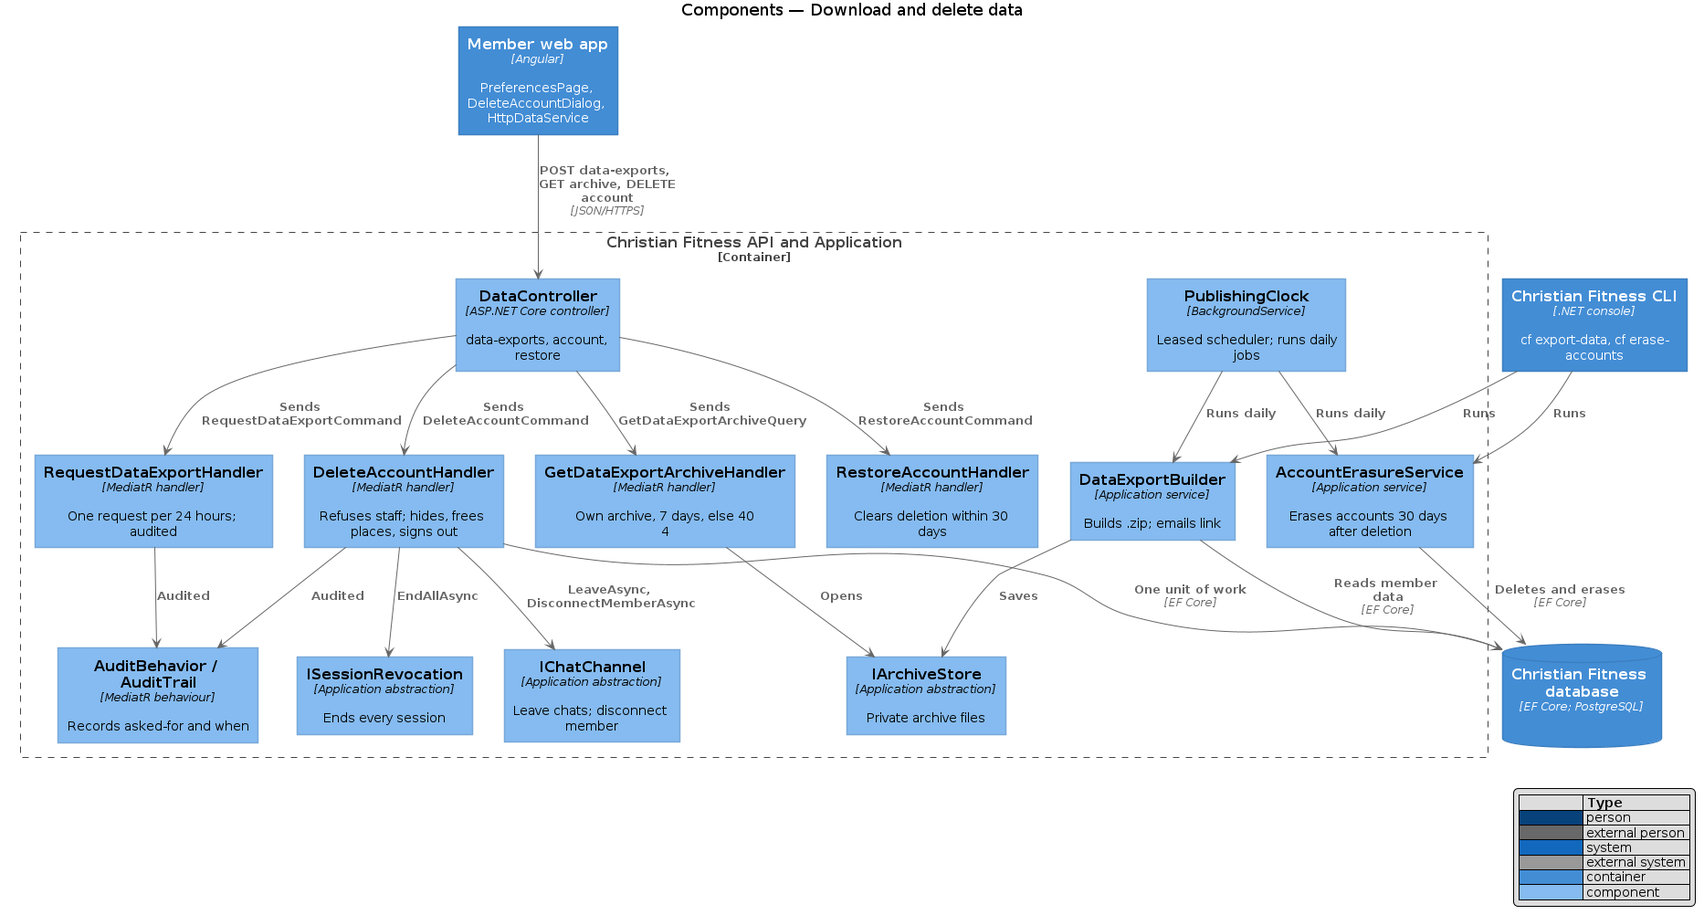
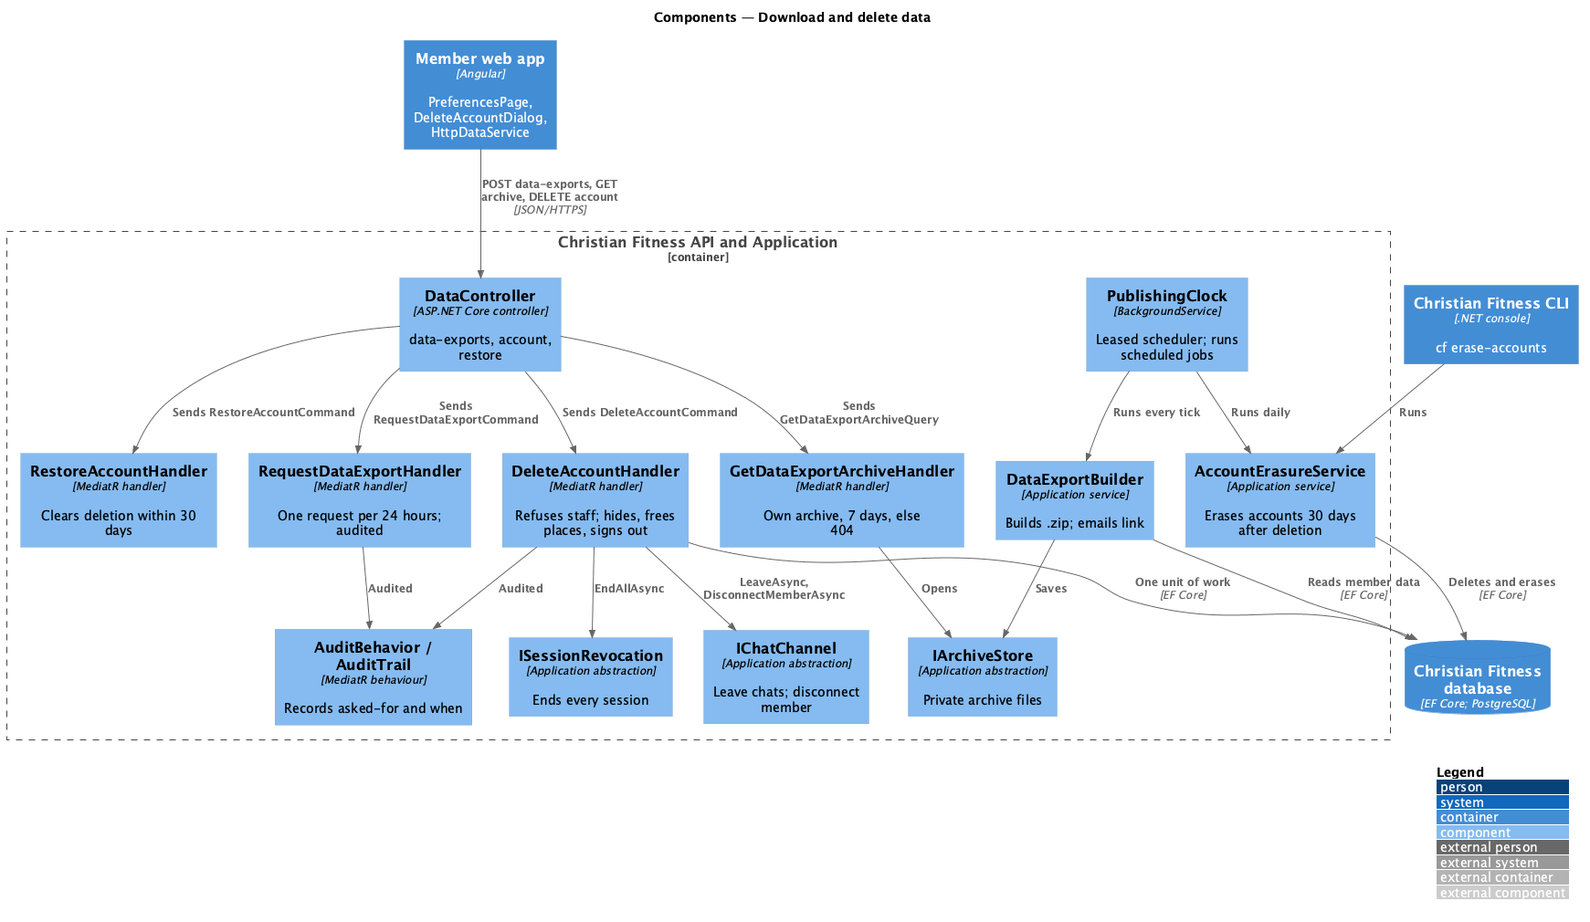
Journey 35 complete: ADR 0117, design, diagrams, mock, journeys and lessons learned

Changed region(s): [[0.0, 0.0309, 1.0, 0.99], [0.4032, 0.0, 0.5893, 0.0309], [0.1551, 0.3713, 0.1861, 0.4022]]

diff --git a/docs/mocks/pages/download/default.html b/docs/mocks/pages/download/default.html
@@ -35,7 +35,7 @@
         <span class="done__icon"><svg class="icon icon--lg" viewBox="0 0 24 24" aria-hidden="true"><path d="M20 6 9 17l-5-5"/></svg></span>
         <h1 class="display page-title done__title">Your download is ready</h1>
         <p class="done__text">Your data is on its way to your device. If it doesn't start, download it again. The link works for 7 days, until April 22, 2026, and only while you're signed in.</p>
-        <div class="done__actions"><a class="btn btn--primary" href="default.html"><svg class="icon" viewBox="0 0 24 24" aria-hidden="true"><path d="M21 15v4a2 2 0 0 1-2 2H5a2 2 0 0 1-2-2v-4"/><polyline points="7 10 12 15 17 10"/><line x1="12" x2="12" y1="15" y2="3"/></svg>Download again</a><a class="btn btn--secondary" href="../../pages/preferences/default.html">Back to preferences</a></div>
+        <div class="done__actions"><button class="btn btn--primary" type="button"><svg class="icon" viewBox="0 0 24 24" aria-hidden="true"><path d="M21 15v4a2 2 0 0 1-2 2H5a2 2 0 0 1-2-2v-4"/><polyline points="7 10 12 15 17 10"/><line x1="12" x2="12" y1="15" y2="3"/></svg>Download again</button><a class="btn btn--secondary" href="../../pages/preferences/default.html">Back to preferences</a></div>
       </section>
     </div>
   </main>

diff --git a/docs/detailed-designs/preferences/download-and-delete-data/README.md b/docs/detailed-designs/preferences/download-and-delete-data/README.md
@@ -21,14 +21,14 @@ This feature supersedes the export and deletion parts of [protect personal data]
 
 - **Your data section** — part of `PreferencesPage` ([set email and notification preferences](../set-email-and-notification-preferences/README.md)). "Download your data" shows a secondary `button` "Request download"; once requested, or when `PreferencesDto.downloadRequestedAt` is within the last 24 hours, it shows the `role="status"` text "Requested. We'll email you a link within 24 hours." in its place (AC1, AC3). "Delete account" opens the dialog. A link to the Privacy Policy closes the section (`L2-067` AC4).
 - **`DeleteAccountDialog`** — CDK Dialog in `projects/web/src/app/dialogs/delete-account/`, imported with `import()` on first press so neither it nor the CDK enters the initial bundle, and opened with the page's injector. It composes the library's `dialog` shell (title "Delete your account?", the account's name and email as subtitle), the `prose` text of what is removed and when, `text-field` "Type "delete" to confirm", `alert` and two `button`s, "Keep my account" and "Delete my account" (danger). Focus starts in the field; Escape, Close and "Keep my account" close it with nothing changed (AC4). `deleteConfirmation` in `@cf/domain` checks the word: anything else marks the field `aria-invalid` with "Type the word delete to confirm." and sends nothing (AC5, mock `invalid`). While waiting the button reads "Deleting…" and both buttons are disabled (mock `busy`). A failure shows "We couldn't delete your account" with "Nothing was changed." (mock `failed`). Success closes the dialog by its ref and navigates to the landing page (AC6). A refusal with `staff_account` shows "Staff accounts can't be deleted here. Ask an Admin." (AC9, mock `staff-account`).
-- **`DataApi` / `DATA_SERVICE`** — contract and token in the `api` library (`api/src/account/data.ts`): `requestDownload()`, `deleteAccount(confirm)`. `HttpDataService` is bound on `PreferencesPage`.
-- **Download link route** — `/preferences/download/:id` under the member shell and `memberAuthGuard`, so a member who follows the emailed link signs in first and returns to it (`L2-004` AC6). The page starts the browser download from `GET /api/data-exports/{id}/archive` and shows an expired or not-found state otherwise (mock `docs/mocks/pages/download/`, states `default` and `expired`).
+- **`DataApi` / `DATA_SERVICE`** — contract and token in the `api` library (`api/src/account/data.ts`): `requestDownload()`, `download(id)`, `archive(id)`, and (journey 36) `deleteAccount(confirm)`. `HttpDataService` is bound on `PreferencesPage` and on `DownloadPage`. A request that gets no answer shows the library's inline message under the row, with Try again ([ADR 0117](../../../adr/0117-download-my-data.md)).
+- **Download link route** — `/preferences/download/:id` under the member shell and `memberAuthGuard`, so a member who follows the emailed link signs in first and returns to it (`L2-004` AC6). `DownloadPage` reads `GET /api/data-exports/{id}` for the link's expiry, then reads `GET /api/data-exports/{id}/archive` and hands it to the browser to save through an object URL it revokes at once; "Download again" reads it again. Every 404 shows the `expired` state, since the API answers another member's link as it answers an expired one; no answer shows `error` with Try again (mock `docs/mocks/pages/download/`, states `loading`, `default`, `expired` and `error`; ADR 0117).
 
 ### Christian Fitness API
 
-- **`DataController`** — `POST /api/data-exports` sends `RequestDataExportCommand`; `GET /api/data-exports/{id}/archive` sends `GetDataExportArchiveQuery`; `DELETE /api/account` sends `DeleteAccountCommand`; `POST /api/account/restore` sends `RestoreAccountCommand`. Each requires a member session except restore (see the restore behaviour).
+- **`DataController`** — `POST /api/data-exports` sends `RequestDataExportCommand`; `GET /api/data-exports/{id}` sends `GetDataExportQuery` (the link's `expiresAt`); `GET /api/data-exports/{id}/archive` sends `GetDataExportArchiveQuery` (built as `DataExportsController`); `DELETE /api/account` sends `DeleteAccountCommand`; `POST /api/account/restore` sends `RestoreAccountCommand`. Each requires a member session except restore (see the restore behaviour).
 - **`RequestDataExportCommand` / handler** — an `IAuditableCommand` (`data_export.requested`). When a request of the caller's is younger than 24 hours it answers that one and adds nothing; otherwise it adds a `DataExportRequest`. It records the audit entry with the member as actor (AC10).
-- **`DataExportBuilder`** — application service run daily by the shared scheduler ([ADR 0069](../../../adr/0069-scheduled-work.md)), or manually by `cf export-data`. For each request without an archive it assembles the member's own data (below) into a .zip, stores it through a private `IArchiveStore`, sets `ReadyAt` and `ExpiresAt = ReadyAt + 7 days`, and sends one `EmailMessage` to the account's address with the link `{MemberAppAddress}/preferences/download/{id}` (AC1). The same run deletes archives past their expiry. Neither the email nor any span carries what the archive holds (AC10).
+- **`DataExportBuilder`** — built as `BuildDataExportsCommand`, run on every tick of the shared scheduler ([ADR 0069](../../../adr/0069-scheduled-work.md)), so an archive is ready within a minute; no CLI command runs it ([ADR 0117](../../../adr/0117-download-my-data.md)). For each request without an archive, at most 10 a tick, it assembles the member's own data (below) into a .zip, stores it through a private `IArchiveStore`, sets `ReadyAt` and `ExpiresAt = ReadyAt + 7 days`, and sends one `EmailMessage` to the account's address with the link `{MemberAppAddress}/preferences/download/{id}` (AC1). The same run deletes archives past their expiry. Neither the email nor any span carries what the archive holds (AC10).
 - **`GetDataExportArchiveQuery` / handler** — streams the archive only when the request's `MemberId` is the caller's and `ExpiresAt` is in the future; any other id, an expired one or another member's is the same 404 `not_found` (AC2, `L2-031` AC3).
 - **`DeleteAccountCommand` / `DeleteAccountValidator` / handler** — an `IAuditableCommand` (`account.deletion_requested`). The validator refuses a `confirm` other than "delete" with 400 `validation_failed`. The handler refuses a member who holds a `StaffRole` with 403 `staff_account` (AC9), then, in one unit of work: marks the member deleting (`Member.RequestDeletion(now)`, which sets `DeletionRequestedAt`); removes their registrations at events (and later series sessions) that have not started, so the places go back (AC6); unsubscribes the account subscription; deletes unused password resets and every archive; ends every session through `ISessionRevocation.EndAllAsync` (AC6, "signed out everywhere at once"). After the save it calls `IChatChannel.LeaveAsync` for each event chat the member was in and a new `IChatChannel.DisconnectMemberAsync`, so open hub connections close too.
 - **Deleting accounts in other handlers** — from the moment of deletion: `GetPublicProfileHandler` answers `not_found`; group and direct chat history and the conversation list name the author "A former member" (AC7); `ChatMembership.SeatAsync` and `GroupMembership.ShareAGroupAsync` ignore the member, so they leave every group chat (AC6); `DirectChat.OtherNameAsync` treats them as unavailable; going counts exclude them.
@@ -65,17 +65,18 @@ The table lists every store of member data in the code today, then the stores th
 | Google sign-in link (`L2-049`) | No | Kept for restore | Deleted |
 | Series places and drop-ins (`L2-052`, `L2-053`) | Yes | Sessions not started go back; series chat left | Deleted |
 | Listing follows (`L2-056`) | Yes | Kept for restore | Deleted |
-| Listing suggestions (`L2-062`), including the suggested person's email | Yes | Kept for staff review | Erased |
-| Feedback notes, replies kept with them and screenshots (`L2-063`, `L2-074`) | Yes | Kept; replies to a deleting member refused with `member_deleting` | Erased, screenshot files too |
+| Listing suggestions (`L2-062`), including the suggested person's email | Yes, without the suggested person's email or the decline reason (ADR 0117) | Kept for staff review | Erased |
+| Feedback notes, replies kept with them and screenshots (`L2-063`, `L2-074`) | The member's notes; a reply's time but not its text, and no screenshot file (ADR 0117) | Kept; replies to a deleting member refused with `member_deleting` | Erased, screenshot files too |
 | Legal acceptance versions (`L2-067` AC5) | Yes | Kept | Deleted |
 | `DataExportRequest` and archives | — | Archives deleted; links stop working | Rows deleted |
 
 ### Open questions
 
 - **Deadline and daily cadence.** A daily run can finish an export after its 24-hour deadline
-  or erase an account after its 30-day threshold, even without an outage. The implementation
-  slice must resolve the timing and recovery needed to meet `L2-066` and `L2-033`, without
-  shortening the member's 30-day restoration period.
+  or erase an account after its 30-day threshold, even without an outage. For exports, ADR 0117
+  resolves it: the builder runs on every scheduler tick and a missed tick's requests stay due.
+  Erasure (journey 36) must still resolve its timing and recovery without shortening the
+  member's 30-day restoration period.
 - **Mocked states.** Sign-in for a deleting account with Restore (`docs/mocks/pages/sign-in/deleting.html`), the download page (`pages/download/`, `default` ready and `expired`), the `staff_account` refusal in the dialog (`dialogs/delete-account/staff-account.html`) and the wording of the deletion-requested, deletion-done and download-ready emails (`pages/email-deletion-requested/`, `email-deletion-done/`, `email-download-ready/`) are drawn.
 - **Audit by members.** `AuditBehavior` (ADR 0023) serves staff commands today; this design uses it for two member commands, with the member as actor, which ADR 0023 should record.
 

diff --git a/docs/adr/0117-download-my-data.md b/docs/adr/0117-download-my-data.md
@@ -1,0 +1,69 @@
+# 0117. Download my data
+
+## Status
+
+Accepted, 27 November 2026. Builds journey 35 (`L2-066` AC1 to AC3 and AC10); follows
+[ADR 0078](0078-personal-data-erasure-and-retention.md) and the scheduler of
+[ADR 0069](0069-scheduled-work.md) and [ADR 0104](0104-schedule-stories.md). Leaves the
+deletion half of the same design to journey 36.
+
+## Context
+
+The design ([download and delete data](../detailed-designs/preferences/download-and-delete-data/README.md))
+runs the archive builder daily and asks the implementation to resolve how a daily run meets the
+24-hour promise. It names the archive's seven files but not their fields, and its table puts
+staff replies to feedback in the archive although `L2-066` AC2 says the archive holds no other
+person's messages. The mock draws "Download again" as a link to the archive, and has no state for
+a request that gets no answer.
+
+## Decision
+
+- **Cadence.** The builder runs on every tick of the publishing clock (30 seconds, under its
+  lease), not daily: a request is built within a minute, far inside 24 hours, and a tick missed in
+  an outage is caught by the next one, since every request without `ReadyAt` stays due. A tick
+  builds at most 10 archives, oldest first. The same tick deletes each archive whose 7 days are
+  over and clears its key, so the link stops working. No `cf export-data` command is added: the
+  clock is the only runner, and an operator never needs to build one by hand.
+- **Request.** `POST /api/data-exports` is an auditable member command (`data_export.requested`,
+  record type `DataExportRequest`, the member as actor, as ADR 0078 amends ADR 0023). A request
+  younger than 24 hours is answered again with its time and nothing is added or audited.
+  `GET /api/preferences` answers `downloadRequestedAt` while the latest request is younger than 24
+  hours, so the confirmation shows in place of the button for that long (AC3). The server alone
+  decides the 24 hours; the page shows the confirmation whenever the field is set.
+- **Archive.** `README.txt` and `profile.json` (with `legalAcceptance` and `suggestions`),
+  `preferences.json` (the four sections of Preferences), `registrations.json` (events and series),
+  `follows.json`, `messages.json` (`groupChats` by chat title, and `direct` by the display name of
+  the member written to), `feedback.json` and `subscriptions.json`. No file holds an id. Left out
+  because they are another person's: messages received, the email of a person suggested for the
+  directory, and the text of staff replies to feedback (only `repliedAt` stays). Left out because
+  they are staff's words: a moderation note and a suggestion's decline reason. A group chat names
+  its event or series only, not its other members. Screenshots stay out; a note says
+  `hasScreenshot`. Times are UTC.
+- **Storage.** `IArchiveStore` keeps each .zip under a new key (`{guid}.zip`) in
+  `Exports__Directory` (documented in `docs/operations/settings.md`; `/data/exports` on the
+  container app's share). Nothing serves that folder.
+- **Link.** The email (mock `email-download-ready`) links to `/preferences/download/{id}` in the
+  member shell, so a member signs in first. `GET /api/data-exports/{id}` answers `expiresAt`, and
+  `GET /api/data-exports/{id}/archive` the .zip as a `private, no-store` attachment, only for the
+  caller's own request while `ExpiresAt` is in the future; any other id, another member's, one not
+  built yet or one past its 7 days is the same 404 `not_found` (`L2-031` AC3). The page therefore
+  shows mock `expired` for every 404: it cannot, and must not, tell another member's link from an
+  expired one.
+- **Download in the page.** The page reads the archive with `HttpClient` and hands it to the
+  browser through an object URL that it revokes straight after the save begins, or when the page is
+  destroyed. A browser download of the archive's address would bypass the app's error handling and
+  the e2e fixture, which cannot intercept it. "Download again" is therefore a button that reads it
+  again, not a link to the archive as the mock draws it; the mock now draws a button.
+- **States the mocks do not draw.** A request that gets no answer shows the library's inline
+  message under the row, "Your download wasn't requested." with Try again; the button stays. The
+  expired state uses the `done` block's alert variant (its clock icon), not the mock's circle.
+  A 5xx on the download page's check is the app's server-error screen, as on every screen.
+- **Telemetry.** The clock logs how many archives it built, never whose or what they hold. No
+  handler logs; the email's body is not logged (ADR 0010).
+
+## Consequences
+
+A member gets their copy within a minute of asking, not within a day. The archive is held in
+memory once while it is built and once in the page while it is saved, which keeps each archive
+small enough only while members' data stays small; a member with very many messages would need a
+streamed archive. Journey 36 deletes a deleting member's archives and requests.

diff --git a/docs/lessons-learned.md b/docs/lessons-learned.md
@@ -5,7 +5,7 @@ added before it merges. Read this file before starting a journey and apply what 
 
 Each entry records what slowed the work, the new lessons it taught and how earlier lessons
 worked when applied. Newest entries go at the bottom.
-**% complete:** 94% (34 of 36 journeys; 106 of 113 days)
+**% complete:** 96% (35 of 36 journeys; 109 of 113 days)
 
 ## Slice 1.1: Frontend workspace
 
@@ -3749,3 +3749,55 @@ home church" in Preferences only, a followed listing's events new until opened, 
 - "Prove an absence by exact keys": the Edit profile request is asserted whole, so no
   `showHomeChurch` key can return unnoticed.
 
+## Journey 35: Download my data
+
+"Request download" in Preferences' new Your data section records and audits the request, and the
+confirmation stands in place of the button for 24 hours. The scheduler builds the .zip on its next
+tick and emails the link; `/preferences/download/:id` downloads it only for its own member, for 7
+days, and the archive is removed after (ADR 0117). Journey 36's parts of the same design are left.
+
+**What slowed it**
+
+- The first download spec saw a file called `archive.html`: a browser download of an address (a
+  link with `download`, or a navigation answered as an attachment) bypasses Playwright's routing,
+  so the request reached the static server, which answered the app's shell. The page now reads the
+  archive with `HttpClient` and saves it through an object URL, which the fixture answers.
+- The design's table put staff replies and the suggested person's email in the archive, which the
+  requirement's "no other person's messages, email" forbids. The requirement's words were built and
+  the design's table corrected.
+- `ng build` does not type-check specs: a field added to `PreferencesDto` broke a domain spec that
+  only `ng test domain` found.
+- A test class whose tests move a shared clock by 7 days made another test's expected email date
+  depend on the order they ran in; the expiry test moved to a class (and fixture) of its own.
+- The worktree guard refused heredocs, compound `cd … && git` commands and relative `cd`; edits
+  went through Python scripts in the scratchpad with exact-match asserts, and git ran alone.
+
+**New lessons**
+
+- Never let a browser download an address in an e2e-tested flow: Playwright cannot route it. Read
+  the bytes with the app's HTTP client and save them through an object URL revoked straight after.
+- Before building an export, check each field against the requirement's privacy words; a design's
+  table of "what goes in" can carry another person's data by accident (an email someone typed about
+  a third person, a reply written by staff).
+- When a uniform 404 hides whose an id is, give the screen one state for every 404; do not ask the
+  API to tell "expired" from "not yours".
+- A shared fixture's clock is shared state: a test that moves it by days gets its own class, or
+  every date another test expects must be worked from the clock it reads.
+- Run `ng test` for every library whose types a change touches, not only the one that has the new
+  spec.
+
+**How earlier lessons worked**
+
+- "Break each rule alone": eight backend breaks (received messages in the archive, the expiry edge,
+  rebuilding a ready request, every group message, the email's date, another member's link, the
+  link's last second, the 24-hour window) and four on the pages (no download started, `not_found`
+  not read as expired, the confirmation on arrival, the failure not kept) each failed their own
+  test. The telemetry test was not broken on purpose: no code path logs the archive.
+- "Read the initial total after each slice, against the base": web stays at 279.06 kB after each
+  slice; the download page and the row's new variants load with their routes.
+- "`@let` and a first `NgTemplateOutlet` cost `main`": the preference row's `NgTemplateOutlet` was
+  already paid for by `cf-button`; the total did not move.
+- "Re-rendering PlantUML is part of the slice": the three diagrams that named a daily export job or
+  `cf export-data` were changed and re-rendered.
+- "Prove an absence by exact keys": the request's answer, the link's answer and the archive's
+  profile, suggestion and direct-message objects are asserted by their exact keys.

diff --git a/docs/journeys.md b/docs/journeys.md
@@ -9,7 +9,7 @@ Angular screen, and acceptance tests (ATDD). Each journey also carries its share
 cross-cutting requirements in `specs/L2.md` (security, performance, accessibility, telemetry,
 audit), so those are not listed on their own.
 
-**% complete:** 94% (34 of 36 journeys; 106 of 113 days)
+**% complete:** 96% (35 of 36 journeys; 109 of 113 days)
 
 | #   | Journey                                | App    | Description                                                                                                    | Effort (days) |
 | --- | -------------------------------------- | ------ | -------------------------------------------------------------------------------------------------------------- | ------------- |
@@ -47,7 +47,7 @@ audit), so those are not listed on their own.
 | 32  | ✅ Make a Community Pick               | Both   | Staff pick an event and make branded images and captions for four platforms; `/e/<id>` links land on it.       | 4             |
 | 33  | ✅ Set email and notification preferences | Member | Choose which emails and in-app notifications to get, saved together from a save bar.                           | 3             |
 | 34  | ✅ Set privacy and suggestion preferences | Member | Choose who sees my profile, lists me and messages me, and what orders Home's suggestions.                      | 4             |
-| 35  | Download my data                       | Member | Request a .zip of my data and download it from a private link.                                                 | 3             |
+| 35  | ✅ Download my data                    | Member | Request a .zip of my data and download it from a private link.                                                 | 3             |
 | 36  | Delete my account                      | Member | Delete my account, restore it within 30 days, and have it erased after.                                        | 4             |
 
 ## Where each journey is specified

diff --git a/docs/adr/README.md b/docs/adr/README.md
@@ -117,3 +117,4 @@ from the platform's best practice needs one (AGENTS.md, "Prefer best practice").
 | [0114](0114-email-and-notification-preferences.md) | Email and notification preferences: the notification switches follow `L2-064` AC4, not the mock; `MemberPreferences` with defaults for a member with no row and the notifier asking it; the email switches are the account address's subscription, an issue going only where the Weekly is on; one save; leaving with unsaved changes asks with the browser's own question. |
 | [0115](0115-privacy-and-suggestion-preferences.md) | Privacy and suggestion preferences (journey 34, partly built): defaults, profile visibility with a public address for Anyone profiles, shared groups, `messages_restricted` with listing owners exempt, an event's suggestion area and Home's order; attendee lists and a visitor's profile page are not built yet. |
 | [0116](0116-privacy-preferences-completed.md) | Privacy and suggestion preferences completed (journey 34): a visitor's `/members/:id` under the masthead, the not-found view for a hidden profile, "Show my home church" only in Preferences, up to five attendees named on an event with those off the lists counted only, a followed listing's events new until opened, `messages_restricted` said in the chat, Preferences on Profile. |
+| [0117](0117-download-my-data.md) | Download my data (journey 35): the archive built on every scheduler tick, not daily; the request audited and answered again within 24 hours; the seven files and what they leave out (others' messages, a suggested person's email, staff replies); the member-only link as one 404 for every other id, shown as expired; the archive read in the page and saved through a revoked object URL. |
